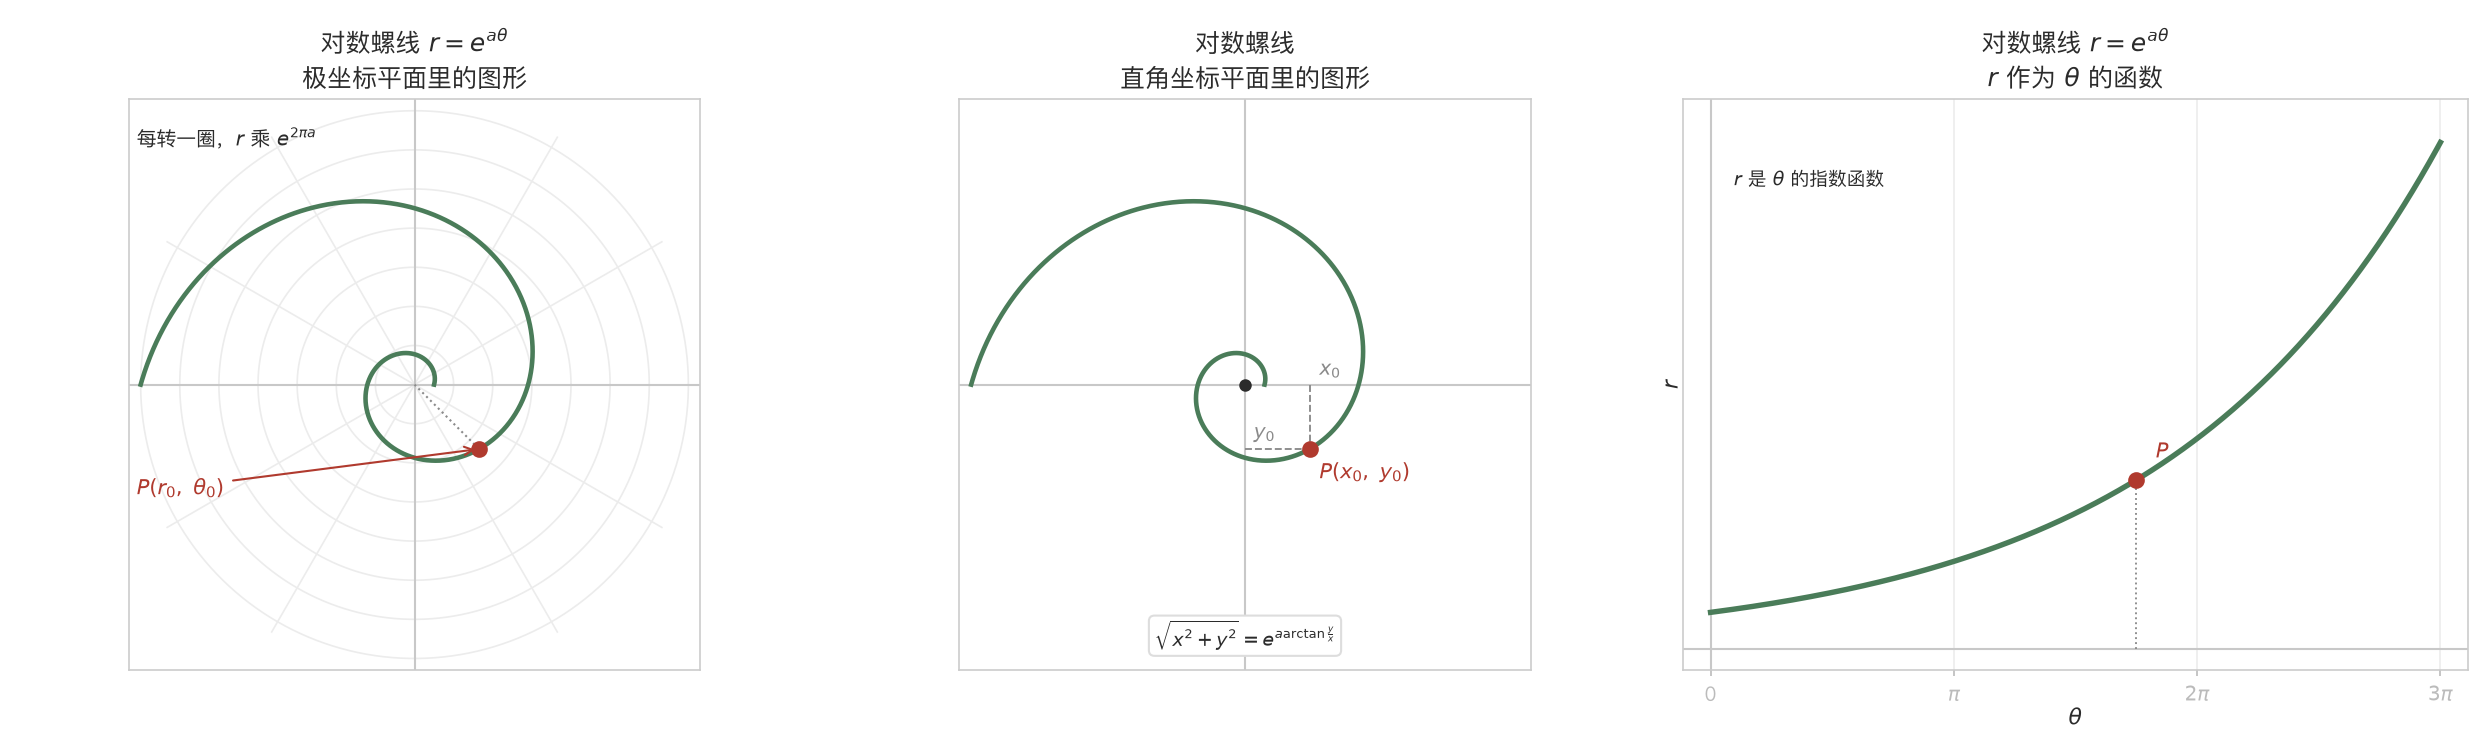
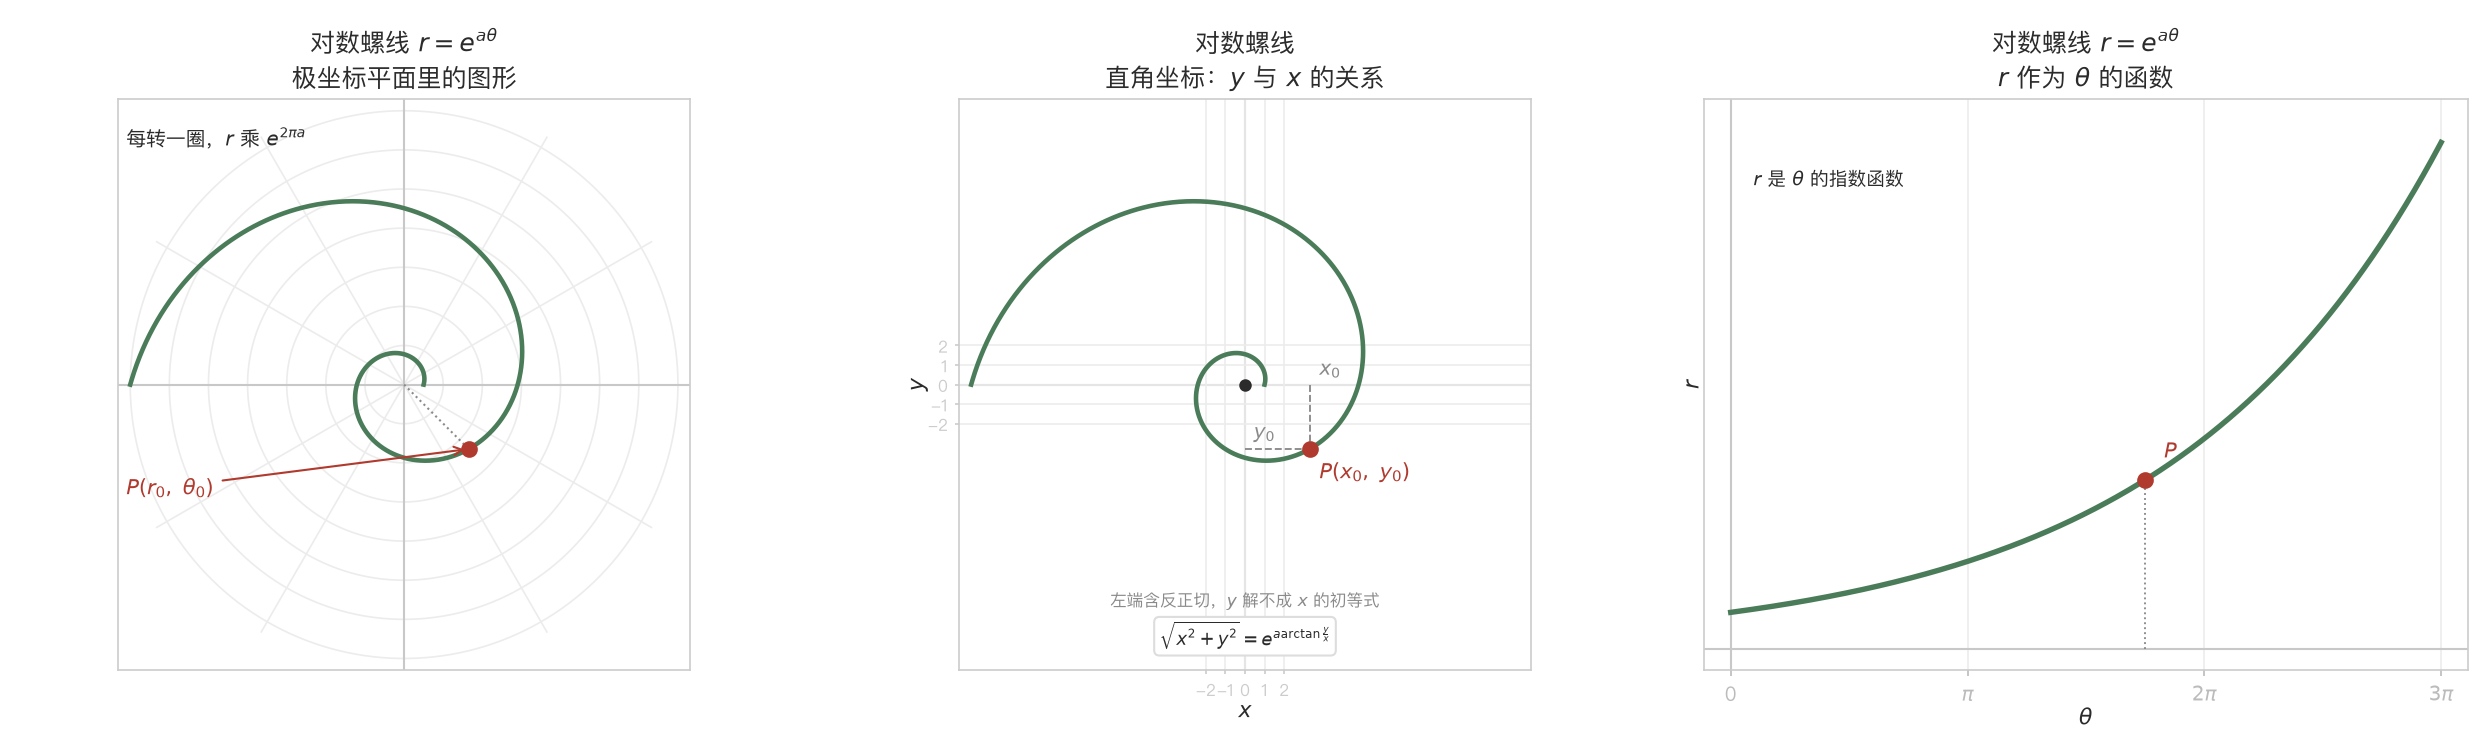
img: cartesian panels now plot y vs x with explicit y=f(x) formulas

diff --git a/img/kaoyan-math/make_polar_curve_figs.py b/img/kaoyan-math/make_polar_curve_figs.py
@@ -31,19 +31,29 @@ def polar_axes(ax, lim, title):
     ax.set_title(title + "\n极坐标平面里的图形", fontsize=T, color=INK, pad=6)
 
 
-def cart_panel(ax, lim, title, eq, eqfont=None):
+def cart_panel(ax, lim, title, eq, eqfont=None, note=""):
     ax.set_xlim(-lim, lim); ax.set_ylim(-lim, lim)
     ax.set_aspect("equal")
     ax.grid(True, color="#ececec", lw=0.8)
     ax.axhline(0, color="#c8c8c8", lw=1.0, zorder=1)
     ax.axvline(0, color="#c8c8c8", lw=1.0, zorder=1)
-    ax.set_xticks([]); ax.set_yticks([])
+    tk = [-2, -1, 0, 1, 2]
+    tk = [t for t in tk if -lim < t < lim]
+    ax.set_xticks(tk); ax.set_yticks(tk)
+    ax.set_xticklabels([str(t) for t in tk], fontsize=F - 3.5, color="#999999")
+    ax.set_yticklabels([str(t) for t in tk], fontsize=F - 3.5, color="#999999")
+    ax.tick_params(length=2, colors="#cccccc")
     for sp in ax.spines.values():
         sp.set_color("#cccccc")
-    ax.set_title(title + "\n直角坐标平面里的图形", fontsize=T, color=INK, pad=6)
+    ax.set_xlabel("$x$", fontsize=F - 1, color=INK, labelpad=0)
+    ax.set_ylabel("$y$", fontsize=F - 1, color=INK, labelpad=0)
+    ax.set_title(title + "\n直角坐标：$y$ 与 $x$ 的关系", fontsize=T, color=INK, pad=6)
     ax.text(0.5, 0.035, eq, transform=ax.transAxes,
             fontsize=(eqfont if eqfont else F - 1.5), color=INK,
             ha="center", va="bottom", bbox=BOX)
+    if note:
+        ax.text(0.5, 0.105, note, transform=ax.transAxes, fontsize=F - 3.5,
+                color=GREY, ha="center", va="bottom")
 
 
 def rtheta_axes(ax, trange, rrange, title, ticks=None):
@@ -83,7 +93,8 @@ ax.annotate("$\\theta=\\pi$：$r=0$", xy=(0, 0), xytext=(-2.10, 1.55),
             fontsize=F - 2, color=INK, arrowprops=dict(arrowstyle="->", color=GREY, lw=1.0))
 
 ax = axes[1]
-cart_panel(ax, 2.4, "心形线", "$\\left(x^{2}+y^{2}-ax\\right)^{2}=a^{2}\\left(x^{2}+y^{2}\\right)$", F - 2.5)
+cart_panel(ax, 2.4, "心形线", "$y=\\pm\\sqrt{\\left(\\dfrac{a+\\sqrt{a^{2}+4ax}}{2}\\right)^{2}-x^{2}}$", F - 4,
+           note="开方只给出上下两支，尖角附近还要再分段")
 ax.plot(X, Y, color=RED, lw=2.6, zorder=3)
 ax.plot([0], [0], "o", color=INK, ms=6, zorder=6)
 ax.plot([2 * a], [0], "o", color=BLUE, ms=7, zorder=6)
@@ -114,7 +125,8 @@ for k in range(3):
 ax.text(-1.3, -1.24, "$n$ 为奇数：$n$ 片（这里 3 片）", fontsize=F - 2.5, color=INK)
 
 ax = axes[0][1]
-cart_panel(ax, 1.45, "三叶玫瑰线", "$\\left(x^{2}+y^{2}\\right)^{2}=ay\\left(3x^{2}-y^{2}\\right)$", F - 3)
+cart_panel(ax, 1.45, "三叶玫瑰线", "$\\left(x^{2}+y^{2}\\right)^{2}=ay\\left(3x^{2}-y^{2}\\right)$", F - 3.5,
+           note="$y$ 是 $x$ 的四次隐函数，解不成初等式")
 ax.plot(r3 * np.cos(th), r3 * np.sin(th), color=ORANGE, lw=2.4, zorder=3)
 
 ax = axes[0][2]
@@ -134,7 +146,8 @@ for k in range(4):
 ax.text(-1.3, -1.24, "$n$ 为偶数：$2n$ 片（这里 4 片）", fontsize=F - 2.5, color=INK)
 
 ax = axes[1][1]
-cart_panel(ax, 1.45, "四叶玫瑰线", "$\\left(x^{2}+y^{2}\\right)^{3}=a^{2}\\left(x^{2}-y^{2}\\right)^{2}$", F - 3)
+cart_panel(ax, 1.45, "四叶玫瑰线", "$\\left(x^{2}+y^{2}\\right)^{3}=a^{2}\\left(x^{2}-y^{2}\\right)^{2}$", F - 3.5,
+           note="$y$ 是 $x$ 的六次隐函数，解不成初等式")
 ax.plot(r4 * np.cos(th), r4 * np.sin(th), color=GREEN, lw=2.4, zorder=3)
 
 ax = axes[1][2]
@@ -162,7 +175,8 @@ ax.text(-a - 0.55, 0.15, "顶点", fontsize=F - 3, color=RED)
 ax.text(-1.70, -1.30, "只有 $\\cos 2\\theta\\geq0$ 的部分有图形", fontsize=F - 2.5, color=INK)
 
 ax = axes[1]
-cart_panel(ax, 1.80, "双纽线", "$\\left(x^{2}+y^{2}\\right)^{2}=a^{2}\\left(x^{2}-y^{2}\\right)$", F - 2.5)
+cart_panel(ax, 1.85, "双纽线", "$y=\\pm\\sqrt{\\dfrac{a\\sqrt{8x^{2}+a^{2}}-\\left(2x^{2}+a^{2}\\right)}{2}}$", F - 4,
+           note="开方给出上下两支")
 ax.plot(X2, Y2, color=BLUE, lw=2.6, zorder=3)
 ax.plot([0], [0], "o", color=INK, ms=6, zorder=6)
 ax.plot([a, -a], [0, 0], "o", color=RED, ms=7, zorder=6)
@@ -203,7 +217,8 @@ ax.annotate("$P\\left(r_0,\\ \\theta_0\\right)$", xy=(x0, y0), xytext=(-4.85, -3
 ax.text(-4.85, 4.55, "每转一圈，$r$ 加 $2\\pi a$", fontsize=F - 2, color=INK)
 
 ax = axes[1]
-cart_panel(ax, 5.0, "阿基米德螺线", "$\\sqrt{x^{2}+y^{2}}=a\\arctan\\frac{y}{x}$", F - 2.5)
+cart_panel(ax, 5.0, "阿基米德螺线", "$\\sqrt{x^{2}+y^{2}}=a\\arctan\\frac{y}{x}$", F - 3,
+           note="左端含反正切，$y$ 解不成 $x$ 的初等式")
 ax.plot(r3s * np.cos(th3), r3s * np.sin(th3), color=ORANGE, lw=2.4, zorder=3)
 ax.plot([x0, x0], [0, y0], color=GREY, lw=0.9, ls="--", zorder=2)
 ax.plot([0, x0], [y0, y0], color=GREY, lw=0.9, ls="--", zorder=2)
@@ -243,7 +258,8 @@ ax.annotate("$P\\left(r_0,\\ \\theta_0\\right)$", xy=(x0, y0), xytext=(-14.2, -5
 ax.text(-14.2, 12.2, "每转一圈，$r$ 乘 $e^{2\\pi a}$", fontsize=F - 2, color=INK)
 
 ax = axes[1]
-cart_panel(ax, 14.6, "对数螺线", "$\\sqrt{x^{2}+y^{2}}=e^{a\\arctan\\frac{y}{x}}$", F - 2.5)
+cart_panel(ax, 14.6, "对数螺线", "$\\sqrt{x^{2}+y^{2}}=e^{a\\arctan\\frac{y}{x}}$", F - 3,
+           note="左端含反正切，$y$ 解不成 $x$ 的初等式")
 ax.plot(r4s * np.cos(th4), r4s * np.sin(th4), color=GREEN, lw=2.2, zorder=3)
 ax.plot([x0, x0], [0, y0], color=GREY, lw=0.9, ls="--", zorder=2)
 ax.plot([0, x0], [y0, y0], color=GREY, lw=0.9, ls="--", zorder=2)

diff --git a/img/kaoyan-math/make_polar_more.py b/img/kaoyan-math/make_polar_more.py
@@ -52,10 +52,16 @@ def cart_style(ax, xlim, ylim, title, eq, boxpos=(0.5, 0.035)):
     ax.set_aspect("equal"); ax.grid(True, color="#ececec", lw=0.8)
     ax.axhline(0, color="#c8c8c8", lw=1.0, zorder=1)
     ax.axvline(0, color="#c8c8c8", lw=1.0, zorder=1)
-    ax.set_xticks([]); ax.set_yticks([])
+    tk = [t for t in (-2, -1, 0, 1, 2, 3) if xlim[0] < t < xlim[1]]
+    ax.set_xticks(tk); ax.set_xticklabels([str(t) for t in tk], fontsize=F2 - 3.5, color="#999999")
+    tkY = [t for t in (-2, -1, 0, 1, 2) if ylim[0] < t < ylim[1]]
+    ax.set_yticks(tkY); ax.set_yticklabels([str(t) for t in tkY], fontsize=F2 - 3.5, color="#999999")
+    ax.tick_params(length=2, colors="#cccccc")
+    ax.set_xlabel("$x$", fontsize=F2 - 1, color=INK, labelpad=0)
+    ax.set_ylabel("$y$", fontsize=F2 - 1, color=INK, labelpad=0)
     for sp in ax.spines.values():
         sp.set_color("#cccccc")
-    ax.set_title(title + "\n直角坐标平面里的图形", fontsize=T2, color=INK, pad=6)
+    ax.set_title(title + "\n直角坐标：$y$ 与 $x$ 的关系", fontsize=T2, color=INK, pad=6)
     ax.text(boxpos[0], boxpos[1], eq, transform=ax.transAxes, fontsize=F2 - 1,
             color=INK, ha="center", va="bottom", bbox=BOX)
 
@@ -85,7 +91,7 @@ ax.text(1.75, 0.32, "$\\theta=0$ 时 $r=2a$", fontsize=F2 - 2, color=RED)
 ax.text(-1.15, 2.05, "$\\theta$ 取 $\\left[-\\frac{\\pi}{2},\\frac{\\pi}{2}\\right]$ 描完一圈", fontsize=F2 - 2.5, color=GREY)
 
 ax = axes[0][1]
-cart_style(ax, (-1.2, 3.6), (-2.4, 2.4), "过极点的圆", "$\\left(x-a\\right)^{2}+y^{2}=a^{2}$")
+cart_style(ax, (-1.2, 3.6), (-2.4, 2.4), "过极点的圆", "$y=\\pm\\sqrt{a^{2}-\\left(x-a\\right)^{2}}$")
 ax.plot(2 * a * np.cos(tt) ** 2, 2 * a * np.cos(tt) * np.sin(tt), color=BLUE, lw=2.6, zorder=3)
 ax.plot([0], [0], "o", color=INK, ms=7, zorder=6)
 ax.plot([2 * a], [0], "o", color=RED, ms=7, zorder=6)
@@ -110,7 +116,7 @@ ax.text(1.08, 1.85, "$x=1$", fontsize=F2 - 1, color=ORANGE)
 ax.text(-1.10, 2.05, "直线不过极点，$r$ 随 $\\theta$ 变化", fontsize=F2 - 2.5, color=GREY)
 
 ax = axes[1][1]
-cart_style(ax, (-1.6, 3.4), (-2.4, 2.4), "不过极点的直线", "$x=1$", boxpos=(0.20, 0.06))
+cart_style(ax, (-1.6, 3.4), (-2.4, 2.4), "不过极点的直线", "$x=1$，不能写成 $y=f(x)$", boxpos=(0.30, 0.06))
 ax.plot([1, 1], [-2.2, 2.2], color=ORANGE, lw=2.6, zorder=3)
 ax.plot([0], [0], "o", color=INK, ms=7, zorder=6)
 ax.text(1.10, 1.90, "$x=1$", fontsize=F2 - 1, color=ORANGE)
